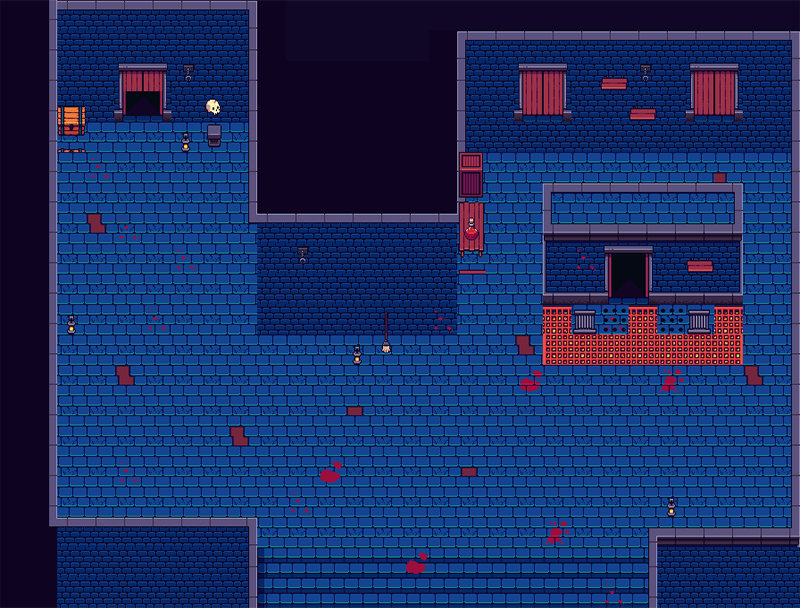
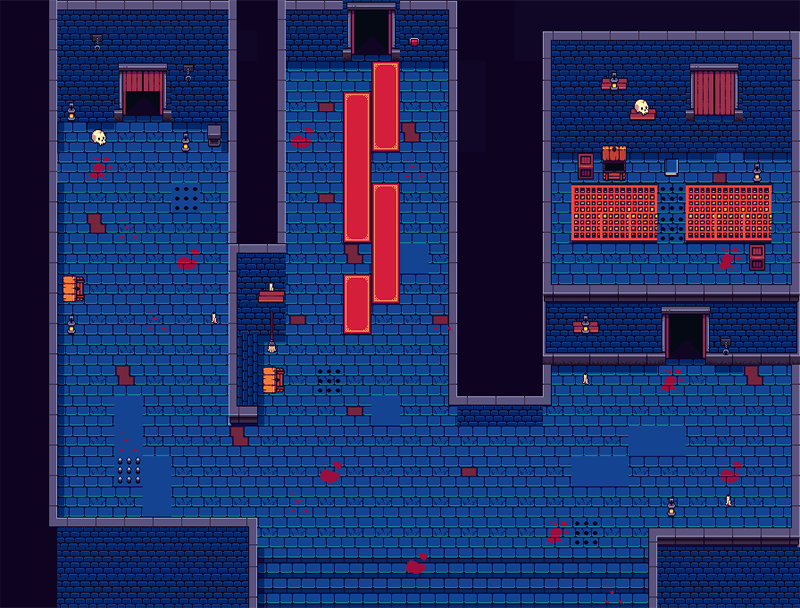
added key

diff --git a/js/main.js b/js/main.js
@@ -74,6 +74,22 @@ gameWindow.onclick = function (e) {
                     document.getElementById("bone").remove();
                     changeInventory('bone', 'add');
                 }
+                case "key2":
+                sign.style.opacity = 1;
+                if (document.getElementById("key2") !== null) {
+                    console.log('Found key!');
+                    document.getElementById("key2").remove();
+                    changeInventory('rusty key', 'add');
+                }
+    
+                break;
+                case "key3":
+                sign.style.opacity = 1;
+                if (document.getElementById("key3") !== null) {
+                    console.log('Found key!');
+                    document.getElementById("key3").remove();
+                    changeInventory('Golden key', 'add');
+                }
     
                 break;
                 case "door2":
@@ -87,7 +103,7 @@ gameWindow.onclick = function (e) {
                             
                             // Change the background image when the door unlocks
                             changeBackgroundImage("assets/img/project2.png");
-                
+                                
                         } else {
                             // no -> alert 'door locked'
                             alert("Door is locked!");

diff --git a/css/main.css b/css/main.css
@@ -52,12 +52,7 @@ p {
     top: 88px;
     left: 37px;
 }
-#start {
-    width: 100px;
-    height: 100px;
-    top: 435px;
-    left: 274px;
-}
+
 #staircase1 {
     width: 200px;
     height: 160px;
@@ -74,10 +69,26 @@ p {
 #door2 {
     width: 44px;
     height: 54px;
-    /* background-color: #fb00ff; */
     top: 4px;
     left: 407px;
 }
+#key2 {
+    width: 25px;
+    height: 39px;
+    top: 272px;
+    left: 62px;
+
+}
+#key3 {
+    width: 30px;
+    height: 39px;
+    top: 150px;
+    left: 600px;
+
+}
+
+
+
 #hallway1 {
     width: 44px;
     height: 54px;
@@ -178,7 +189,12 @@ p {
     left: 0px;
 }
 
-
+#tilemap2 {
+    width: 800px;
+    height: 608px;
+    top: 0px;
+    left: 0px;
+}
 /*Classes*/
 .foreground {
     position: absolute;

diff --git a/index.html b/index.html
@@ -51,9 +51,15 @@
         <div id="sign" class="foreground"></div>
         <div id="statue" class="foreground"></div>
         <div id="statue2" class="foreground"></div>
-        <div id="start" class="foreground"></div>
         <div id="staircase1" class="foreground"></div>
+        <div id="key2" class="foreground"></div>
+        <div id="key3" class="foreground"></div>
 
+
+        
+
+        
+        
 
 
 
